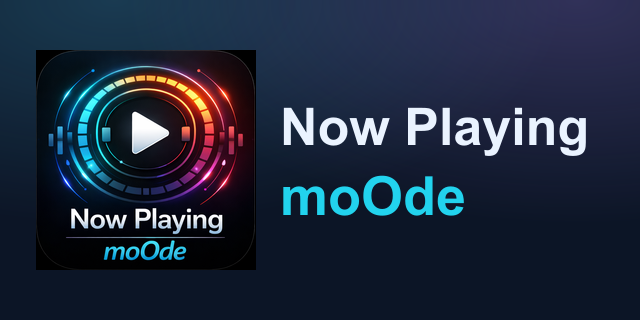
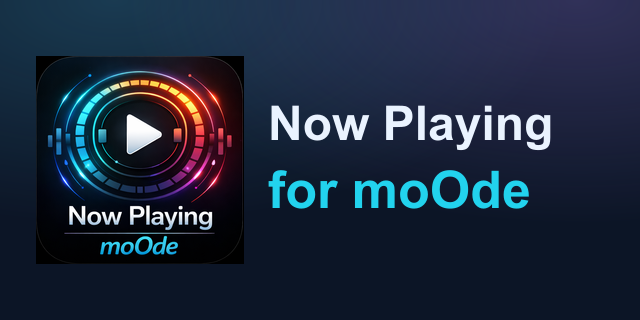
Branding: rename to 'Now Playing for moOde' across app + social preview

Changed region(s): [[0.0312, 0.1562, 0.9375, 0.8438]]

diff --git a/app.html b/app.html
@@ -5,7 +5,7 @@
   <meta name="viewport" content="width=device-width,initial-scale=1,viewport-fit=cover" />
   <meta name="apple-mobile-web-app-capable" content="yes" />
   <meta name="apple-mobile-web-app-status-bar-style" content="black-translucent" />
-  <meta name="apple-mobile-web-app-title" content="Now Playing" />
+  <meta name="apple-mobile-web-app-title" content="Now Playing for moOde" />
   <meta name="mobile-web-app-capable" content="yes" />
   <meta name="theme-color" content="#0c1526" />
   <link rel="manifest" href="/manifest.webmanifest" />

diff --git a/README.md b/README.md
@@ -1,7 +1,7 @@
 # now-playing
 
 <p align="center">
-  <img src="./icons/icon-192.png" alt="Now Playing moOde icon" width="120" height="120" />
+  <img src="./icons/icon-192.png" alt="Now Playing for moOde icon" width="120" height="120" />
 </p>
 
 <p align="center"><strong>Now Playing for moOde</strong></p>
